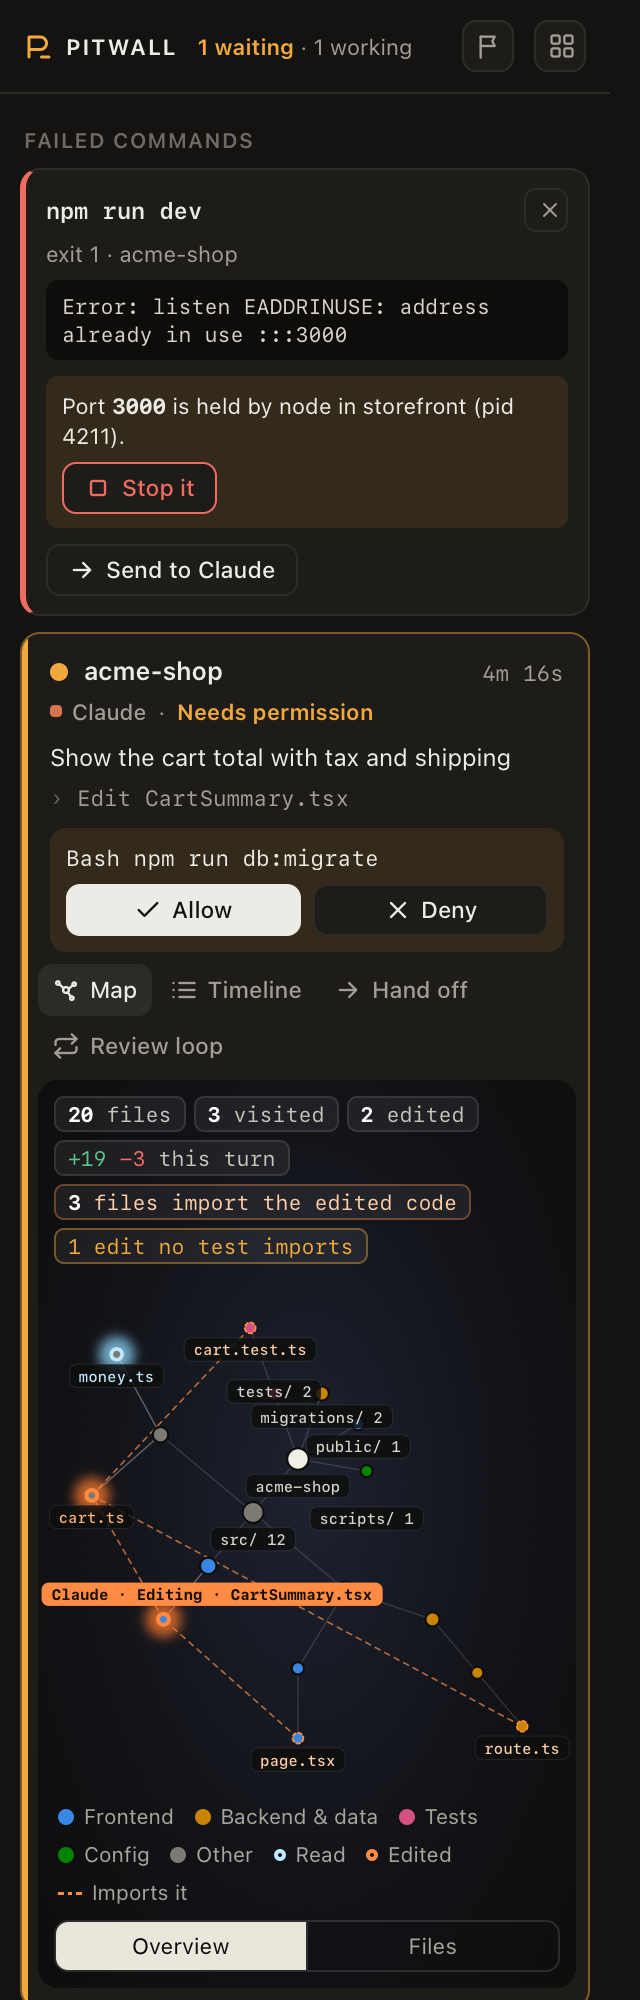
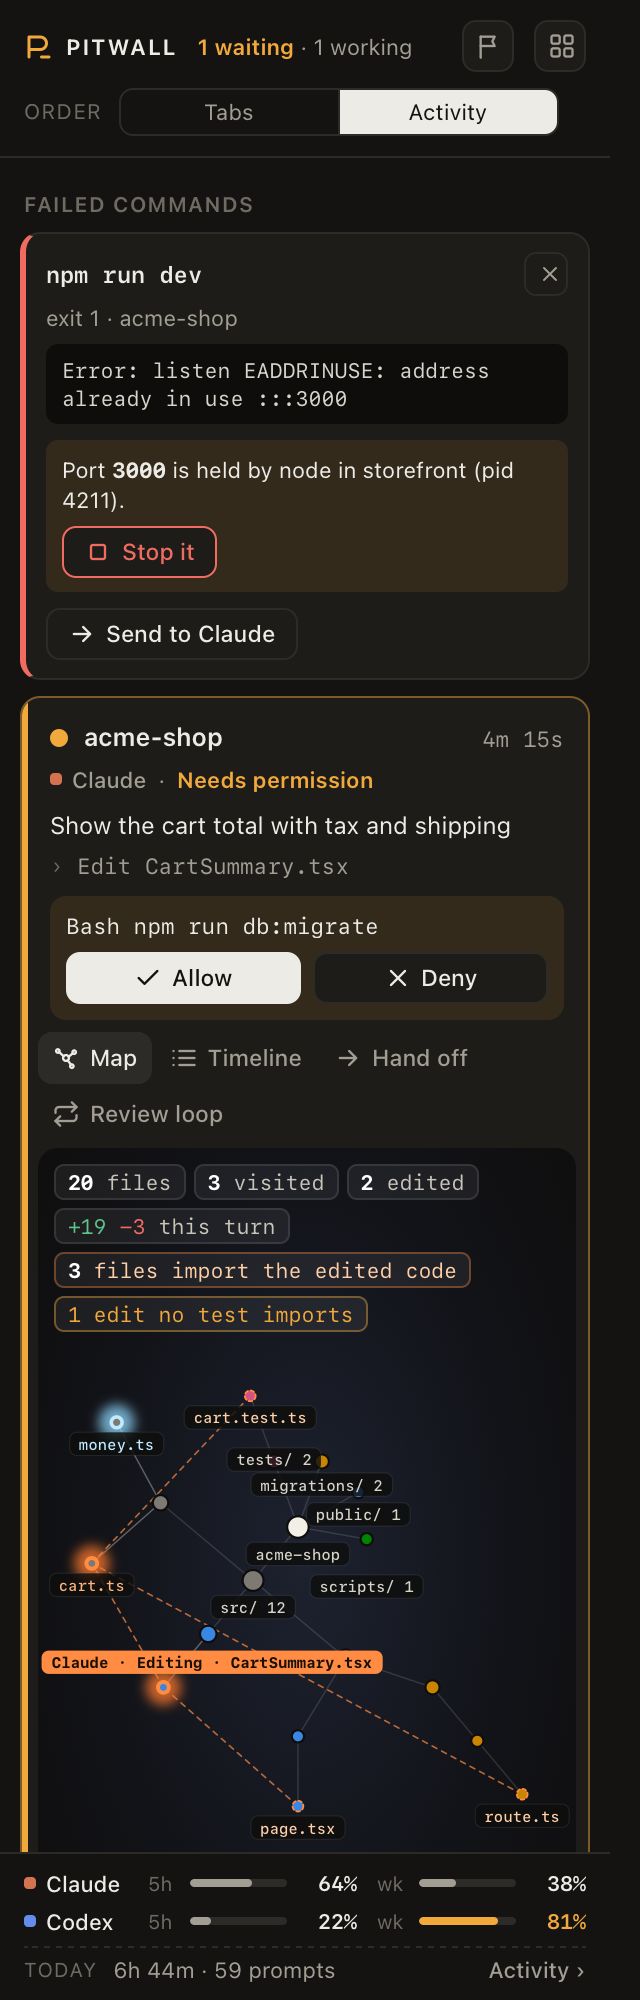
feat: switch between tab order and activity order in the sticky header

diff --git a/pitwall/web/app.js b/pitwall/web/app.js
@@ -84,19 +84,6 @@ function undoPanel(s) {
     <button class="btn" data-act="undo-cancel">Cancel</button></div></div>`;
 }
 
-// Your name for the card, else the iTerm2 tab's own name, else the project folder.
-function cardName(s) {
-  const project = base(s.cwd) || s.title;
-  if (ui.renaming === s.sid) {
-    return `<input class="rename-input" data-rename="${esc(s.sid)}" data-stop value="${esc(s.name || s.tab_name || "")}"
-      placeholder="${esc(project)}" maxlength="60" aria-label="Name this agent" spellcheck="false">`;
-  }
-  const name = s.name || s.tab_name;
-  const shown = name ? `${esc(name)}${name !== project ? `<small>${esc(project)}</small>` : ""}` : esc(project);
-  return `<span class="project" title="Double-click to rename">${shown}</span>
-    <button class="icon-btn small rename" data-act="rename" aria-label="Rename" title="Rename">${ICON.pencil}</button>`;
-}
-
 function card(s) {
   const busy = ui.pending[s.sid] ? "disabled" : "";
   const waiting = s.state === "waiting_permission";
@@ -136,7 +123,7 @@ function render() {
   } else if (!list.length) {
     html = `<div class="empty-state"><strong>No agents yet</strong>Start Claude Code or Codex in any iTerm2 tab and it shows up here.</div>`;
   } else {
-    html = list.map(card).join("");
+    html = ordered(list).map(card).join("");
   }
   if (ui.data && !MISSION) html = raceForm() + racesSection() + failuresSection(ui.data.failures) + html + portsSection();
   if (!MISSION) {
@@ -238,36 +225,6 @@ $("usage").addEventListener("click", (e) => {
   if (e.target.closest("[data-usage]")) api("/api/open", { view: "activity" }).catch((err) => toast(err.message));
 });
 
-// Rename: double-click the name or use the pencil. Enter or leaving the field saves, Escape cancels.
-function startRename(sid) {
-  ui.renaming = sid;
-  render();
-  const input = document.querySelector("[data-rename]");
-  if (input) { input.focus(); input.select(); }
-}
-
-async function finishRename(input, save) {
-  const sid = input.dataset.rename;
-  if (ui.renaming !== sid) return;
-  ui.renaming = null;
-  input.blur();
-  if (save) {
-    try { await api("/api/rename", { sid, name: input.value }); } catch (e) { toast(e.message); }
-  }
-  await poll();
-}
-
-$("cards").addEventListener("dblclick", (e) => {
-  const name = e.target.closest(".project");
-  const el = name && name.closest("[data-sid]");
-  if (el) startRename(el.dataset.sid);
-});
-$("cards").addEventListener("keydown", (e) => {
-  if (!e.target.dataset.rename) return;
-  if (e.key === "Enter") finishRename(e.target, true);
-  if (e.key === "Escape") finishRename(e.target, false);
-});
-$("cards").addEventListener("focusout", (e) => { if (e.target.dataset.rename) finishRename(e.target, true); });
 $("mission").addEventListener("click", () => api("/api/mission", {}).catch((err) => toast(err.message)));
 
 if (MISSION) document.body.classList.add("mission");

diff --git a/pitwall/web/cards.js b/pitwall/web/cards.js
@@ -1,0 +1,62 @@
+"use strict";
+// Card order (tabs or activity) and card names (rename). Loads after app.js and uses its globals.
+
+// The server sends cards in tab order. Activity order puts the agents that need you first.
+const NEED = { waiting_permission: 0, waiting_input: 1, failed: 2, working: 3, done: 4, idle: 5 };
+function ordered(list) {
+  if (ui.order !== "activity") return list;
+  return [...list].sort((a, b) => (NEED[a.state] ?? 9) - (NEED[b.state] ?? 9) || b.updated - a.updated);
+}
+
+function setOrder(order) {
+  ui.order = order === "activity" ? "activity" : "tabs";
+  try { localStorage.setItem("pitwall.order", ui.order); } catch { /* private mode: keep it for this view */ }
+  document.querySelectorAll("#order button").forEach((b) => b.classList.toggle("on", b.dataset.order === ui.order));
+  render();
+}
+
+// Your name for the card, else the iTerm2 tab's own name, else the project folder.
+function cardName(s) {
+  const project = base(s.cwd) || s.title;
+  if (ui.renaming === s.sid) {
+    return `<input class="rename-input" data-rename="${esc(s.sid)}" data-stop value="${esc(s.name || s.tab_name || "")}"
+      placeholder="${esc(project)}" maxlength="60" aria-label="Name this agent" spellcheck="false">`;
+  }
+  const name = s.name || s.tab_name;
+  const shown = name ? `${esc(name)}${name !== project ? `<small>${esc(project)}</small>` : ""}` : esc(project);
+  return `<span class="project" title="Double-click to rename">${shown}</span>
+    <button class="icon-btn small rename" data-act="rename" aria-label="Rename" title="Rename">${ICON.pencil}</button>`;
+}
+
+// Rename: double-click the name or use the pencil. Enter or leaving the field saves, Escape cancels.
+function startRename(sid) {
+  ui.renaming = sid;
+  render();
+  const input = document.querySelector("[data-rename]");
+  if (input) { input.focus(); input.select(); }
+}
+
+async function finishRename(input, save) {
+  const sid = input.dataset.rename;
+  if (ui.renaming !== sid) return;
+  ui.renaming = null;
+  input.blur();
+  if (save) {
+    try { await api("/api/rename", { sid, name: input.value }); } catch (e) { toast(e.message); }
+  }
+  await poll();
+}
+
+$("cards").addEventListener("dblclick", (e) => {
+  const name = e.target.closest(".project");
+  const el = name && name.closest("[data-sid]");
+  if (el) startRename(el.dataset.sid);
+});
+$("cards").addEventListener("keydown", (e) => {
+  if (!e.target.dataset.rename) return;
+  if (e.key === "Enter") finishRename(e.target, true);
+  if (e.key === "Escape") finishRename(e.target, false);
+});
+$("cards").addEventListener("focusout", (e) => { if (e.target.dataset.rename) finishRename(e.target, true); });
+$("order").addEventListener("click", (e) => { const b = e.target.closest("[data-order]"); if (b) setOrder(b.dataset.order); });
+try { setOrder(localStorage.getItem("pitwall.order")); } catch { setOrder("tabs"); }

diff --git a/pitwall/web/index.html b/pitwall/web/index.html
@@ -20,6 +20,13 @@
   <button class="icon-btn" id="mission" title="Open Mission Control" aria-label="Open Mission Control">
     <svg viewBox="0 0 24 24" aria-hidden="true"><rect x="3" y="3" width="7" height="7" rx="1.5"/><rect x="14" y="3" width="7" height="7" rx="1.5"/><rect x="3" y="14" width="7" height="7" rx="1.5"/><rect x="14" y="14" width="7" height="7" rx="1.5"/></svg>
   </button>
+  <div class="order" role="group" aria-label="Order the agents">
+    <span>Order</span>
+    <div class="seg" id="order">
+      <button data-order="tabs" title="As your windows, tabs and panes are">Tabs</button>
+      <button data-order="activity" title="Agents that need you first, then the most recent">Activity</button>
+    </div>
+  </div>
 </header>
 <main id="cards" aria-live="polite"></main>
 <footer class="usage-bar" id="usage" aria-label="Plan usage"></footer>
@@ -29,5 +36,6 @@
 <script src="/usage.js"></script>
 <script src="/map.js"></script>
 <script src="/app.js"></script>
+<script src="/cards.js"></script>
 </body>
 </html>

diff --git a/pitwall/web/app.css b/pitwall/web/app.css
@@ -312,3 +312,11 @@ body.mission .usage-bar { display: none; }
 .today-row > span:first-child { color: var(--faint); font-size: 10px; text-transform: uppercase; letter-spacing: .06em; }
 .today-row .tval { overflow: hidden; text-overflow: ellipsis; white-space: nowrap; min-width: 0; }
 .mm .meter { grid-area: auto; display: block; }
+
+/* Order switch: a second row of the sticky header */
+.bar { flex-wrap: wrap; row-gap: 8px; }
+.order { flex-basis: 100%; display: flex; align-items: center; gap: 8px; }
+.order > span { color: var(--faint); font-size: 10.5px; text-transform: uppercase; letter-spacing: .06em; }
+.order .seg { flex: 1; margin: 0; max-width: 220px; }
+.order .seg button { height: 22px; }
+body.mission .order { flex-basis: auto; margin-left: 12px; }

diff --git a/scripts/demo.py b/scripts/demo.py
@@ -41,6 +41,7 @@ SESSIONS = [
          loop={"reviewer": "2", "reviewer_agent": "codex", "round": 1, "max": 3, "auto": False, "phase": "fixing",
                "pending": {"to": "writer", "text": "1. guide.md:41 says Node 18; v3 needs Node 20.\n\nCHANGES NEEDED"}}),
 ]
+SESSIONS.append(SESSIONS.pop(0))  # tab order: the waiting agent is in the last tab
 FAILURES = [{"id": 1, "command": "npm run dev", "status": 1, "cwd": SHOP, "project": "acme-shop", "agent_sid": "1",
              "agent": "claude", "output": "Error: listen EADDRINUSE: address already in use :::3000",
              "busy": {"pid": 4211, "command": "node", "port": 3000, "project": "storefront"}}]

diff --git a/pitwall/daemon.py b/pitwall/daemon.py
@@ -26,7 +26,7 @@ WEB = Path(__file__).parent / "web"
 STATIC = {"/app.css": "text/css; charset=utf-8", "/app.js": "text/javascript; charset=utf-8",
           "/features.js": "text/javascript; charset=utf-8", "/races.js": "text/javascript; charset=utf-8",
           "/usage.js": "text/javascript; charset=utf-8", "/activity.js": "text/javascript; charset=utf-8",
-          "/map.js": "text/javascript; charset=utf-8"}
+          "/map.js": "text/javascript; charset=utf-8", "/cards.js": "text/javascript; charset=utf-8"}
 PAGES = {"/": "index.html", "/activity": "activity.html"}
 BUSY = ("working", "waiting_permission")
 SCAN_SECONDS = 5

diff --git a/README.md b/README.md
@@ -17,7 +17,8 @@ this for Ghostty.
 
 **See every agent**
 
-- **Agent panel.** One card per agent, in the order of your iTerm2 windows, tabs and panes:
+- **Agent panel.** One card per agent, in the order of your iTerm2 windows, tabs and panes, or
+  with the agents that need you first (the Tabs and Activity switch at the top):
   project, state (working, needs permission, waiting for you, done, failed), task, last action
   and a timer. Click a card to go to that pane. Double-click its name to rename it; the tab
   takes the same name. Plan usage stays pinned to the bottom of the panel.
